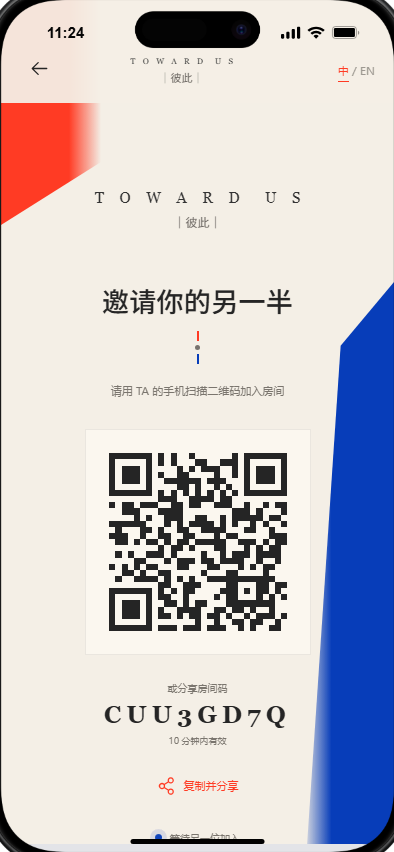
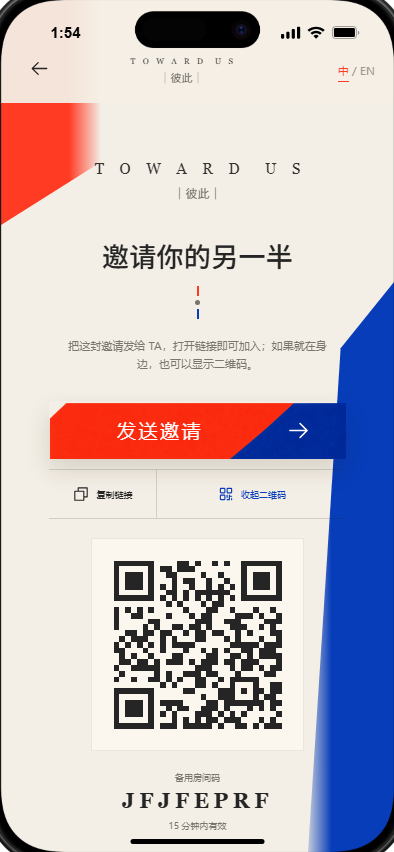
Add privacy-safe invitation sharing

diff --git a/src/DemoFlow.tsx b/src/DemoFlow.tsx
@@ -1,6 +1,6 @@
 import {
   ArrowLeft, ArrowRight, CheckCircle, Copy, DeviceMobile, HandHeart, LinkSimple, LockKey,
-  Microphone, PaperPlaneRight, ShareNetwork, Sparkle, StopCircle, UsersThree, WarningCircle, Waveform,
+  Microphone, PaperPlaneRight, QrCode, Sparkle, StopCircle, UsersThree, WarningCircle, Waveform,
 } from "@phosphor-icons/react";
 import { useEffect, useMemo, useRef, useState } from "react";
 import { KeyboardInput, KeyboardTextarea, MobileScroll, useKeyboard, useKeyboardInsets } from "./mobile";
@@ -38,8 +38,8 @@ const words = {
     shared: "共用一台手机", sharedHint: "一起使用，简单快捷", remote: "各用一台手机", remoteHint: "扫码加入，更私密",
     privacy: "原始录音不保存。临时转录与分析将在一小时后自动删除。", yourName: "你的称呼", partnerName: "对方的称呼",
     create: "创建临时房间", joinTitle: "加入这次体验", joinHint: "输入称呼后，你将作为第二位参与者加入。", join: "加入房间",
-    expired: "这个临时房间已满或已经过期。", invite: "邀请你的另一半", inviteHint: "请用 TA 的手机扫描二维码加入房间",
-    shareCode: "或分享房间码", valid: "10 分钟内有效", copyShare: "复制并分享", ready: "我已准备好", connected: "你们已连接",
+    expired: "这个临时房间已满或已经过期。", invite: "邀请你的另一半", inviteHint: "把这封邀请发给 TA，打开链接即可加入；如果就在身边，也可以显示二维码。",
+    shareCode: "备用房间码", valid: "15 分钟内有效", sendInvite: "发送邀请", copyLink: "复制链接", showQr: "对方在身边？显示二维码", hideQr: "收起二维码", ready: "我已准备好", connected: "你们已连接",
     consentHint: "开始前，请两个人分别确认录音与转录同意。", consent: "我同意录音与转录", consented: "已同意录音",
     localOnly: "原始音频只用于本次转录，不会保存。", start: "开始表达", room: "临时调解房间", waiting: "等待另一位加入",
     emptyTitle: "先把发生的事说出来", emptyBody: "AI 会保持安静，直到你们主动请它加入；安全边界除外。",
@@ -51,15 +51,15 @@ const words = {
     saveHint: "两个人分别登录或创建账号并确认后，这次复盘才会进入你们的共同历史。", login: "登录", register: "创建账号",
     name: "你的称呼", email: "邮箱", password: "密码（至少 10 个字符）", claim: "确认保存我的这一侧", claimed: "我已确认，等待对方",
     saved: "双方已确认，这次体验已经进入共同历史。", goAccount: "进入正式空间", switchRegister: "还没有账号？创建一个",
-    switchLogin: "已有账号？返回登录", exit: "退出快速体验", shareText: "加入我的 Toward Us 临时调解房间",
+    switchLogin: "已有账号？返回登录", exit: "退出快速体验", shareText: "我不想和你争输赢，想和你好好把这件事说清楚。点击链接加入我们这次的 Toward Us 对话（15 分钟内有效）。",
   },
   en: {
     back: "Back", quick: "Quick demo", entryTitle: "Beyond the argument, we choose each other.", choose: "Choose how to enter",
     shared: "Share one phone", sharedHint: "Together, simple and quick", remote: "Use two phones", remoteHint: "Scan to join, more private",
     privacy: "Raw audio is never saved. Temporary transcripts and analysis are deleted after one hour.", yourName: "Your name", partnerName: "Partner name",
     create: "Create temporary room", joinTitle: "Join this demo", joinHint: "Enter your name to join as the second participant.", join: "Join room",
-    expired: "This temporary room is full or has expired.", invite: "Invite your other half", inviteHint: "Ask them to scan this QR code with their phone",
-    shareCode: "Or share the room code", valid: "Valid for 10 minutes", copyShare: "Copy and share", ready: "I’m ready", connected: "You’re connected",
+    expired: "This temporary room is full or has expired.", invite: "Invite your other half", inviteHint: "Send this invitation so they can join from the link, or show a QR code if you are together.",
+    shareCode: "Backup room code", valid: "Valid for 15 minutes", sendInvite: "Send invitation", copyLink: "Copy link", showQr: "Together in person? Show QR", hideQr: "Hide QR", ready: "I’m ready", connected: "You’re connected",
     consentHint: "Before you begin, each person confirms recording and transcription consent.", consent: "I consent to recording and transcription", consented: "Recording consented",
     localOnly: "Raw audio is used only for this transcription and is not stored.", start: "Start expressing", room: "Temporary mediation room", waiting: "Waiting for the other person",
     emptyTitle: "Start with what happened", emptyBody: "AI stays quiet until you invite it in, except when a safety boundary is crossed.",
@@ -71,13 +71,13 @@ const words = {
     saveHint: "It enters shared history only after both people sign in or register and confirm.", login: "Sign in", register: "Create account",
     name: "Your name", email: "Email", password: "Password (10+ characters)", claim: "Confirm and save my side", claimed: "Confirmed — waiting for partner",
     saved: "Both confirmed. This experience is now in your shared history.", goAccount: "Open formal space", switchRegister: "New here? Create an account",
-    switchLogin: "Already registered? Sign in", exit: "Exit quick demo", shareText: "Join my Toward Us temporary mediation room",
+    switchLogin: "Already registered? Sign in", exit: "Exit quick demo", shareText: "I don’t want this to be about winning. I want us to understand each other. Join our Toward Us conversation with this 15-minute invitation.",
   },
 };
 
 export default function DemoFlow() {
   const [language, setLanguage] = useState<Language>(() => localStorage.getItem("toward-us.language") === "en" ? "en" : "zh");
-  const [step, setStep] = useState<DemoStep>(() => new URLSearchParams(location.search).get("room") ? "join" : "entry");
+  const [step, setStep] = useState<DemoStep>(() => initialRoomCode() ? "join" : "entry");
   const [mode, setMode] = useState<RoomMode>("remote");
   const [nameA, setNameA] = useState(""); const [nameB, setNameB] = useState(""); const [joinName, setJoinName] = useState("");
   const [room, setRoom] = useState<DemoRoom | null>(null); const [preview, setPreview] = useState<Preview | null>(null);
@@ -85,13 +85,13 @@ export default function DemoFlow() {
   const [notice, setNotice] = useState(""); const [busy, setBusy] = useState(false); const [qrUrl, setQrUrl] = useState("");
   const keyboard = useKeyboard();
   const t = words[language];
-  const roomCode = room?.code || new URLSearchParams(location.search).get("room")?.toUpperCase() || "";
-  const joinUrl = room ? `${location.origin}/demo?room=${room.code}` : "";
+  const roomCode = room?.code || initialRoomCode();
+  const joinUrl = room ? `${location.origin}/j/${room.code}` : "";
 
   useEffect(() => { localStorage.setItem("toward-us.language", language); }, [language]);
   useEffect(() => { api<Health>("/api/health").then(setHealth).catch(() => {}); api<{ user: Account | null }>("/api/auth/me").then((value) => setAccount(value.user)).catch(() => {}); }, []);
   useEffect(() => {
-    const code = new URLSearchParams(location.search).get("room")?.toUpperCase();
+    const code = initialRoomCode();
     if (!code) return;
     api<{ room: DemoRoom }>(`/api/demo/rooms/${code}`).then(({ room: existing }) => {
       setRoom(existing); setLanguage(existing.language);
@@ -157,9 +157,18 @@ function DemoJoin({ language, preview, name, notice, busy, t, onLanguage, onName
 
 function DemoInvite({ language, room, qrUrl, joinUrl, t, onLanguage, onExit }: { language: Language; room: DemoRoom; qrUrl: string; joinUrl: string; t: typeof words.zh; onLanguage: () => void; onExit: () => void }) {
   const [copied, setCopied] = useState(false);
-  const share = async () => { if (navigator.share) await navigator.share({ title: "Toward Us / 彼此", text: t.shareText, url: joinUrl }); else await navigator.clipboard.writeText(joinUrl); setCopied(true); setTimeout(() => setCopied(false), 1400); };
-  return <MobileScroll className="paper-screen demo-screen demo-invite" data-testid="demo-invite"><DemoHeader language={language} onLanguage={onLanguage} onBack={onExit} /><div className="demo-red-corner" /><div className="demo-blue-side" /><main className="demo-centered"><Wordmark /><h1>{t.invite}</h1><PauseMark /><p>{t.inviteHint}</p>{qrUrl && <img className="demo-qr" src={qrUrl} alt={`${t.invite} ${room.code}`} />}
-    <div className="demo-code"><span>{t.shareCode}</span><strong>{room.code}</strong><small>{t.valid}</small></div><button className="demo-share" onClick={share}>{copied ? <CheckCircle size={20} weight="fill" /> : <ShareNetwork size={20} />}{copied ? (language === "zh" ? "已复制" : "Copied") : t.copyShare}</button><p className="demo-waiting"><i />{t.waiting}</p></main></MobileScroll>;
+  const [showQr, setShowQr] = useState(false);
+  const copy = async () => { await navigator.clipboard.writeText(joinUrl); setCopied(true); setTimeout(() => setCopied(false), 1400); };
+  const share = async () => {
+    if (!navigator.share) return copy();
+    try { await navigator.share({ title: "Toward Us / 彼此", text: t.shareText, url: joinUrl }); }
+    catch (error) { if ((error as DOMException).name !== "AbortError") await copy(); }
+  };
+  return <MobileScroll className="paper-screen demo-screen demo-invite" data-testid="demo-invite"><DemoHeader language={language} onLanguage={onLanguage} onBack={onExit} /><div className="demo-red-corner" /><div className="demo-blue-side" /><main className="demo-centered"><Wordmark /><h1>{t.invite}</h1><PauseMark /><p>{t.inviteHint}</p>
+    <SplitButton label={t.sendInvite} onClick={share} />
+    <div className="demo-invite-secondary"><button onClick={copy}>{copied ? <CheckCircle size={18} weight="fill" /> : <Copy size={18} />}{copied ? (language === "zh" ? "已复制" : "Copied") : t.copyLink}</button><button onClick={() => setShowQr((value) => !value)}><QrCode size={18} />{showQr ? t.hideQr : t.showQr}</button></div>
+    {showQr && qrUrl && <div className="demo-qr-panel"><img className="demo-qr" src={qrUrl} alt={`${t.invite} ${room.code}`} /></div>}
+    <div className="demo-code"><span>{t.shareCode}</span><strong>{room.code}</strong><small>{t.valid}</small></div><p className="demo-waiting"><i />{t.waiting}</p></main></MobileScroll>;
 }
 
 function DemoConsent({ language, room, notice, busy, t, onLanguage, onConsent, onStart, onExit }: { language: Language; room: DemoRoom; notice: string; busy: boolean; t: typeof words.zh; onLanguage: () => void; onConsent: (id: string) => void; onStart: () => void; onExit: () => void }) {
@@ -213,3 +222,7 @@ function FeedbackBlock({ number, title, body }: { number: string; title: string;
 function DemoList({ title, items }: { title: string; items: string[] }) { return <section className="analysis-section"><header><span>—</span><h2>{title}</h2></header><ul className="demo-analysis-list">{items.map((item) => <li key={item}>{item}</li>)}</ul></section>; }
 async function api<T>(path: string, options: RequestInit = {}): Promise<T> { const response = await fetch(path, { ...options, credentials: "same-origin", headers: { ...(options.body && typeof options.body === "string" ? { "content-type": "application/json" } : {}), ...options.headers } }); const payload = response.status === 204 ? {} : await response.json().catch(() => ({})); if (!response.ok) throw new Error(payload.error || `Request failed (${response.status})`); return payload as T; }
 function formatSeconds(total: number) { return `${Math.floor(total / 60)}:${String(total % 60).padStart(2, "0")}`; }
+function initialRoomCode() {
+  const pathMatch = location.pathname.match(/^\/j\/([A-Z0-9]{8})\/?$/i);
+  return (pathMatch?.[1] || new URLSearchParams(location.search).get("room") || "").toUpperCase();
+}

diff --git a/src/demo.css b/src/demo.css
@@ -37,9 +37,11 @@
 .demo-join .demo-centered { padding-top: 125px; }.demo-join .demo-centered > .home-wordmark { margin-bottom: 76px; }
 .demo-line-field { display: block; margin: 35px 0 36px; text-align: left; }
 .demo-line-field input { height: 49px; font-size: 21px; }
-.demo-qr { width: 226px; height: 226px; display: block; margin: 25px auto 26px; padding: 11px; background: var(--jian-paper-bright); border: 1px solid rgba(37,37,37,.08); image-rendering: pixelated; }
-.demo-code { display: grid; gap: 6px; margin-bottom: 19px; }.demo-code span { color: var(--jian-muted); font-size: 10px; }.demo-code strong { font-family: Georgia, serif; font-size: 24px; letter-spacing: .22em; }.demo-code small { color: var(--jian-muted); font-size: 9px; }
-.demo-share { min-width: 150px; height: 42px; display: inline-flex; align-items: center; justify-content: center; gap: 7px; border: 0; background: transparent; color: var(--jian-red); font-size: 11px; }
+.demo-invite .demo-centered { padding-top: 57px; }.demo-invite .demo-centered > .home-wordmark { margin-bottom: 42px; }.demo-invite .split-cta { width: 100%; height: 58px; margin: 9px auto 10px; }
+.demo-invite-secondary { display: grid; grid-template-columns: .72fr 1.28fr; border-top: 1px solid var(--jian-line); border-bottom: 1px solid var(--jian-line); }
+.demo-invite-secondary button { min-height: 48px; display: flex; align-items: center; justify-content: center; gap: 6px; padding: 6px; border: 0; background: transparent; color: var(--jian-ink); font-size: 9px; }.demo-invite-secondary button + button { border-left: 1px solid var(--jian-line); color: var(--jian-blue); }
+.demo-qr-panel { margin: 19px 0 2px; }.demo-qr { width: 213px; height: 213px; display: block; margin: 0 auto; padding: 10px; background: var(--jian-paper-bright); border: 1px solid rgba(37,37,37,.08); image-rendering: pixelated; }
+.demo-code { display: grid; gap: 6px; margin: 20px 0 15px; }.demo-code span { color: var(--jian-muted); font-size: 9px; }.demo-code strong { font-family: Georgia, serif; font-size: 21px; letter-spacing: .22em; }.demo-code small { color: var(--jian-muted); font-size: 9px; }
 .demo-waiting { display: flex; align-items: center; justify-content: center; gap: 8px; margin-top: 23px !important; font-size: 10px !important; }.demo-waiting i { width: 7px; height: 7px; border-radius: 50%; background: var(--jian-blue); box-shadow: 0 0 0 5px rgba(7,61,185,.12); animation: demo-pulse 1.5s ease-in-out infinite; }
 .demo-consent .demo-centered { padding-top: 82px; }.demo-consent .demo-centered > .home-wordmark { margin-bottom: 60px; }
 .demo-consent-pair { display: grid; grid-template-columns: 1fr 1fr; gap: 24px; margin: 48px -20px 32px; }

diff --git a/index.html b/index.html
@@ -5,6 +5,18 @@
     <meta name="viewport" content="width=device-width, initial-scale=1.0" />
     <meta name="description" content="Toward Us / 彼此 is a private, bilingual AI mediation room for couples." />
     <meta name="theme-color" content="#f4efe6" />
+    <meta name="referrer" content="strict-origin" />
+    <meta property="og:title" content="Toward Us / 彼此" />
+    <meta property="og:description" content="有人邀请你加入一次临时的双人对话。暂停，倾听，修复。A private invitation to pause, listen, and repair." />
+    <meta property="og:type" content="website" />
+    <meta property="og:url" content="/demo" />
+    <meta property="og:image" content="/assets/brand/share-preview.jpg" />
+    <meta property="og:image:width" content="1200" />
+    <meta property="og:image:height" content="630" />
+    <meta name="twitter:card" content="summary_large_image" />
+    <meta name="twitter:title" content="Toward Us / 彼此" />
+    <meta name="twitter:description" content="有人邀请你加入一次临时的双人对话。暂停，倾听，修复。A private invitation to pause, listen, and repair." />
+    <meta name="twitter:image" content="/assets/brand/share-preview.jpg" />
     <title>Toward Us 彼此 · 双人 AI 调解</title>
   </head>
   <body>

diff --git a/tests/demo-flow.spec.ts b/tests/demo-flow.spec.ts
@@ -14,10 +14,13 @@ test("two guests scan in, consent, mediate, and preserve the review together", a
   await expect(hostPage.locator(".demo-invite")).toBeVisible();
   const roomCode = new URL(hostPage.url()).searchParams.get("room");
   expect(roomCode).toMatch(/^[A-Z0-9]{8}$/);
+  await expect(hostPage.getByRole("button", { name: "发送邀请" })).toBeVisible();
+  await expect(hostPage.locator(".demo-qr")).toHaveCount(0);
+  await hostPage.getByRole("button", { name: "对方在身边？显示二维码" }).click();
   await expect(hostPage.locator(".demo-qr")).toBeVisible();
   await screenshotDevice(hostPage, "qa/demo-invite-final.png");
 
-  await partnerPage.goto(`/demo?room=${roomCode}`);
+  await partnerPage.goto(`/j/${roomCode}`);
   await expect(partnerPage.locator(".demo-join")).toBeVisible();
   await partnerPage.getByLabel("你的称呼").fill("阿蓝");
   await partnerPage.getByRole("button", { name: "加入房间" }).click();

diff --git a/src/Prototype.tsx b/src/Prototype.tsx
@@ -92,7 +92,7 @@ const copy = {
 };
 
 export default function Prototype() {
-  return location.pathname.startsWith("/demo") ? <DemoFlow /> : <AccountPrototype />;
+  return location.pathname.startsWith("/demo") || location.pathname.startsWith("/j/") ? <DemoFlow /> : <AccountPrototype />;
 }
 
 function AccountPrototype() {

diff --git a/docs/product-design.zh-CN.md b/docs/product-design.zh-CN.md
@@ -975,7 +975,7 @@ AI 人格由两层组成：
 - 两台设备各自持有只对本房间有效的一小时 HttpOnly 能力 Cookie，服务端天然知道每句话来自哪一位访客；
 - 双方分别确认录音与转录同意后才能发言或请 AI 加入，任何一方都不能代替另一台设备确认；
 - 快速体验的公开预览只返回房间模式、人数与有效期，不暴露姓名、表达、私人反馈或共同分析；
-- 临时房间加入窗口为 10 分钟，房间、转录和分析最长保留 1 小时，原始音频不保存；
+- 临时房间加入窗口为 15 分钟，房间、转录和分析最长保留 1 小时，原始音频不保存；
 - AI 每个临时房间只生成一次分析，并保留双方私下反馈与共同反馈的可见性边界；
 - 双方分别创建或登录正式账号并确认后，临时调解原子转换为正式双人关系与共同历史；任一方单独确认不会迁移数据。
 
@@ -1014,6 +1014,9 @@ AI 人格由两层组成：
 - 房间码和二维码是邀请入口，不是公开分享页面；加入成功后依靠随机能力 Cookie 授权，而不是只依赖可猜测的房间码；
 - 访客可以完成一次真实双人调解，但只有双方都注册、登录并确认后才形成长期数据；
 - 为控制成本与滥用，每个 IP 10 分钟最多创建 5 个房间、每个房间最多 30 段表达和 1 次 AI 分析；
+- 远程邀请的默认动作是调用系统分享面板发送温和文案与 `/j/{房间码}` 一键加入链接；复制链接、按需二维码和手动房间码依次降级；
+- 邀请链接的 GET 请求只返回通用品牌预览与加入页面，不能自动占用席位；真正加入必须由接收者点击按钮后发起 POST；
+- 聊天软件预览使用通用 Open Graph 品牌图，不包含姓名、争议主题、房间状态、转录或分析；
 - 一小时过期是当前演示模式的明确承诺。正式账号空间的长期转录保存规则不受这个临时策略影响；
 - 浏览器原生麦克风权限仍必须由实际使用者亲自授权；拒绝后文字路径继续可用。
 
@@ -1176,8 +1179,9 @@ AI 人格由两层组成：
 
 - 新增 `/demo` 无需下载、无需登录的中英双语快速体验入口；
 - 同时完成面对面单设备与异地双设备扫码加入，第二台设备通过二维码或分享链接进入；
-- 新增访客能力 Cookie、10 分钟加入窗口、一小时自动过期、公开预览最小化、创建限流、消息上限和单次 AI 分析；
+- 新增访客能力 Cookie、15 分钟加入窗口、一小时自动过期、公开预览最小化、创建限流、消息上限和单次 AI 分析；
 - 新增双方录音与转录同意门禁，保留双方私下反馈与共同反馈的可见性分层；
+- 远程邀请默认调用系统分享面板发送温和文案和 `/j/{房间码}` 深链；复制链接、按需二维码、手动房间码依次作为降级路径，链接预览不包含双方姓名、争议主题或房间状态；
 - 新增访客双方分别注册确认后原子迁移为正式共同空间和共同历史；
 - 完成两个隔离浏览器上下文的完整端到端验收，并补齐第二台设备查看 AI 分析的入口；
 - 视觉延续批准的暖白、朱红、群青、颗粒边缘、编辑排版和拼色主动作，没有引入通用卡片化主题。

diff --git a/design-qa.md b/design-qa.md
@@ -94,6 +94,16 @@ No actionable P0, P1, or P2 visual mismatch remains. The implementation was fait
 
 final result: passed
 
+## Remote invitation sharing extension
+
+- Primary action: native system share sheet with a calm invitation message and a direct `/j/{code}` join link.
+- Fallback order: copy link → reveal QR for in-person use → manually type the room code.
+- Link preview asset: `public/assets/brand/share-preview.jpg`, 1200 × 630, generated from the approved visual reference with no names, topics, room state, or other private data.
+- Preview metadata is generic and bilingual-product-safe; production `/j/{code}` responses render absolute Open Graph URLs without calling the room API or consuming the invitation.
+- Existing `/demo?room={code}` links remain accepted for backward compatibility.
+
+Visual and interaction result: passed. The invitation now defaults to the compact share state; the live QR expands only on request without clipping the 393 × 852 protected viewport.
+
 ## No-download QR demo extension — passed
 
 - Accepted source: `public/assets/brand/approved-visual-reference.png`.

diff --git a/README.md b/README.md
@@ -16,7 +16,8 @@
 - 本地 JSON 持久化和生产 PostgreSQL 适配器；
 - Render Blueprint、自动 HTTPS 入口、HTTP→HTTPS 跳转、HSTS、安全头、健康检查和部署后 fail-closed 探针；
 - `/demo` 无登录快速体验：同一台手机或两台手机扫码加入、双方录音/转录同意、文字/语音表达、AI 私下与共同反馈；
-- 临时房间码 10 分钟内可加入，转录和分析最多保留 1 小时，原始音频不落盘；
+- 临时邀请 15 分钟内可加入，转录和分析最多保留 1 小时，原始音频不落盘；
+- 远程邀请默认调用手机系统分享面板发送温和文案和 `/j/{房间码}` 深链，复制链接、二维码和房间码依次作为备用；
 - 两位访客都注册并分别确认后，临时复盘可原子转换为正式共同空间和共同历史。
 
 ## 本地启动
